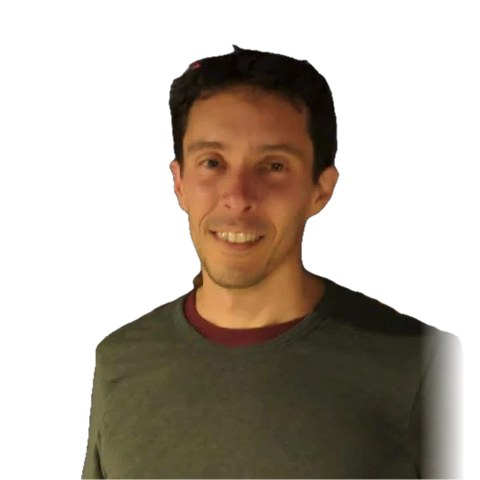
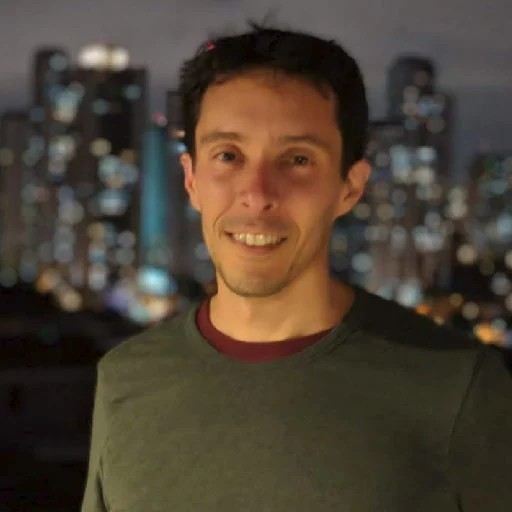
Refresh master's faculty photos
Update the faculty portraits and point Mario Oloriz's profile to his existing team photo. Clarify in the changelog that the photo-processing workflow was added, but the published photos remain original.

diff --git a/maestria-ciencia-datos/index.html b/maestria-ciencia-datos/index.html
@@ -795,7 +795,7 @@
                 </div>
                 <div class="col-sm-6 col-lg-4" data-aos="fade-up" data-aos-duration="1200">
                     <div class="docente-card">
-                        <picture><source srcset="../assets/img/mcd-docentes/mario-oloriz.webp" type="image/webp"><img src="../assets/img/mcd-docentes/mario-oloriz.jpg" alt="Mg. Mario Oloriz" loading="lazy" ></picture>
+                        <picture><source srcset="../assets/img/team/7.webp" type="image/webp"><img src="../assets/img/team/7.jpg" alt="Mg. Mario Oloriz" loading="lazy" ></picture>
                         <div class="docente-body">
                             <div class="docente-nombre">Mg. Mario Oloriz</div>
                             <div class="docente-curso">Gestión universitaria y aspectos legales de la información</div>

diff --git a/CHANGELOG.md b/CHANGELOG.md
@@ -31,7 +31,7 @@ Versioning policy for this project:
 - Home: enlace al texto completo en las entradas de la línea de tiempo que lo tienen, como píldora (`.timeline-pdf` en `css/styles.css`) debajo de la cita: PDF, SEDICI o Póster.
 
 ### Changed
-- Maestría, equipo docente: las doce fotos pasan a tener el sujeto recortado sobre fondo blanco y el mismo encuadre, como la de Santiago Banchero (recorte con el framework Vision de macOS, composición con Pillow; proceso en `tools/maestria/fotos/`, originales en `assets/img/mcd-docentes/_orig/`, fuera de git). Mario Oloriz tiene foto propia en `assets/img/mcd-docentes/` y la home de LICDIA conserva la suya. El perfil de Juan Manuel Fernández pasa a "Procesamiento del lenguaje natural y LLMs".
+- Maestría, equipo docente: el perfil de Juan Manuel Fernández pasa a "Procesamiento del lenguaje natural y LLMs". Se suma en `tools/maestria/fotos/` el proceso para llevar las fotos del equipo a fondo blanco y encuadre parejo (recorte con el framework Vision de macOS y composición con Pillow), con los originales en `assets/img/mcd-docentes/_orig/`, fuera de git; las fotos publicadas siguen siendo las originales.
 - Maestría, portada: los recursos visuales se reparten a lo largo de la página según su contenido. La nube de términos sigue en Presentación; el mapa "Temas de la maestría" pasa a Plan de estudios, después de las tarjetas de los cursos; el "Recorrido de la cursada" pasa a Modalidad de cursada, después de la línea de tiempo de la cohorte, con borde y nota en claro sobre la foto de fondo. "Salida académica y profesional" vuelve a tener solo sus tarjetas.
 - Maestría, plan de estudios: las descripciones de los cursos del acordeón se reemplazan por los contenidos mínimos textuales del Anexo III de la Res. HCS 789/23 (varias no coincidían con el plan aprobado, por ejemplo Ciencia de Datos Aplicada II). Optativas con la lista de cursos previstos y nivelación con los contenidos de sus tres cursos; nota de fuente al pie.
 - `sitemap.xml`: `lastmod` al día para la home (2026-10-17, ahora enlaza al subsitio de la maestría), Publicaciones (2026-10-10) y las ocho páginas de la maestría (2026-10-18), así Google las vuelve a rastrear.
